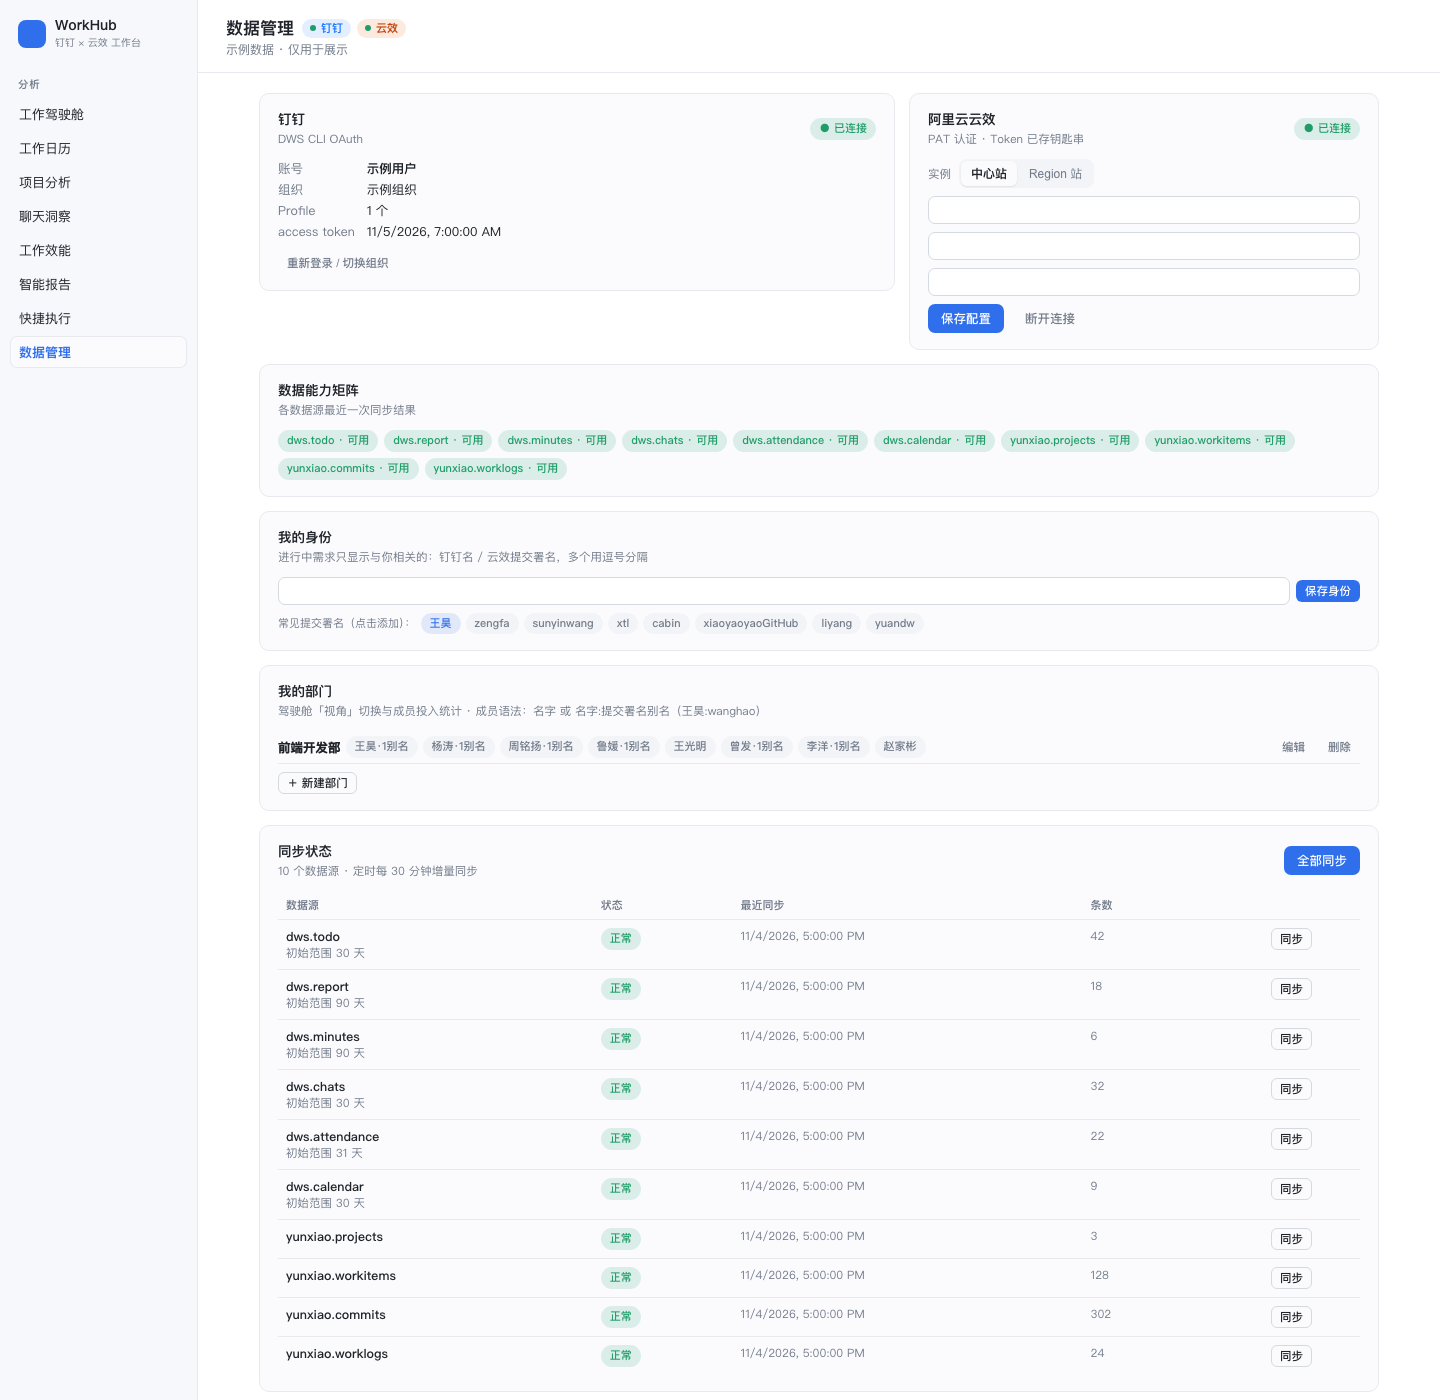
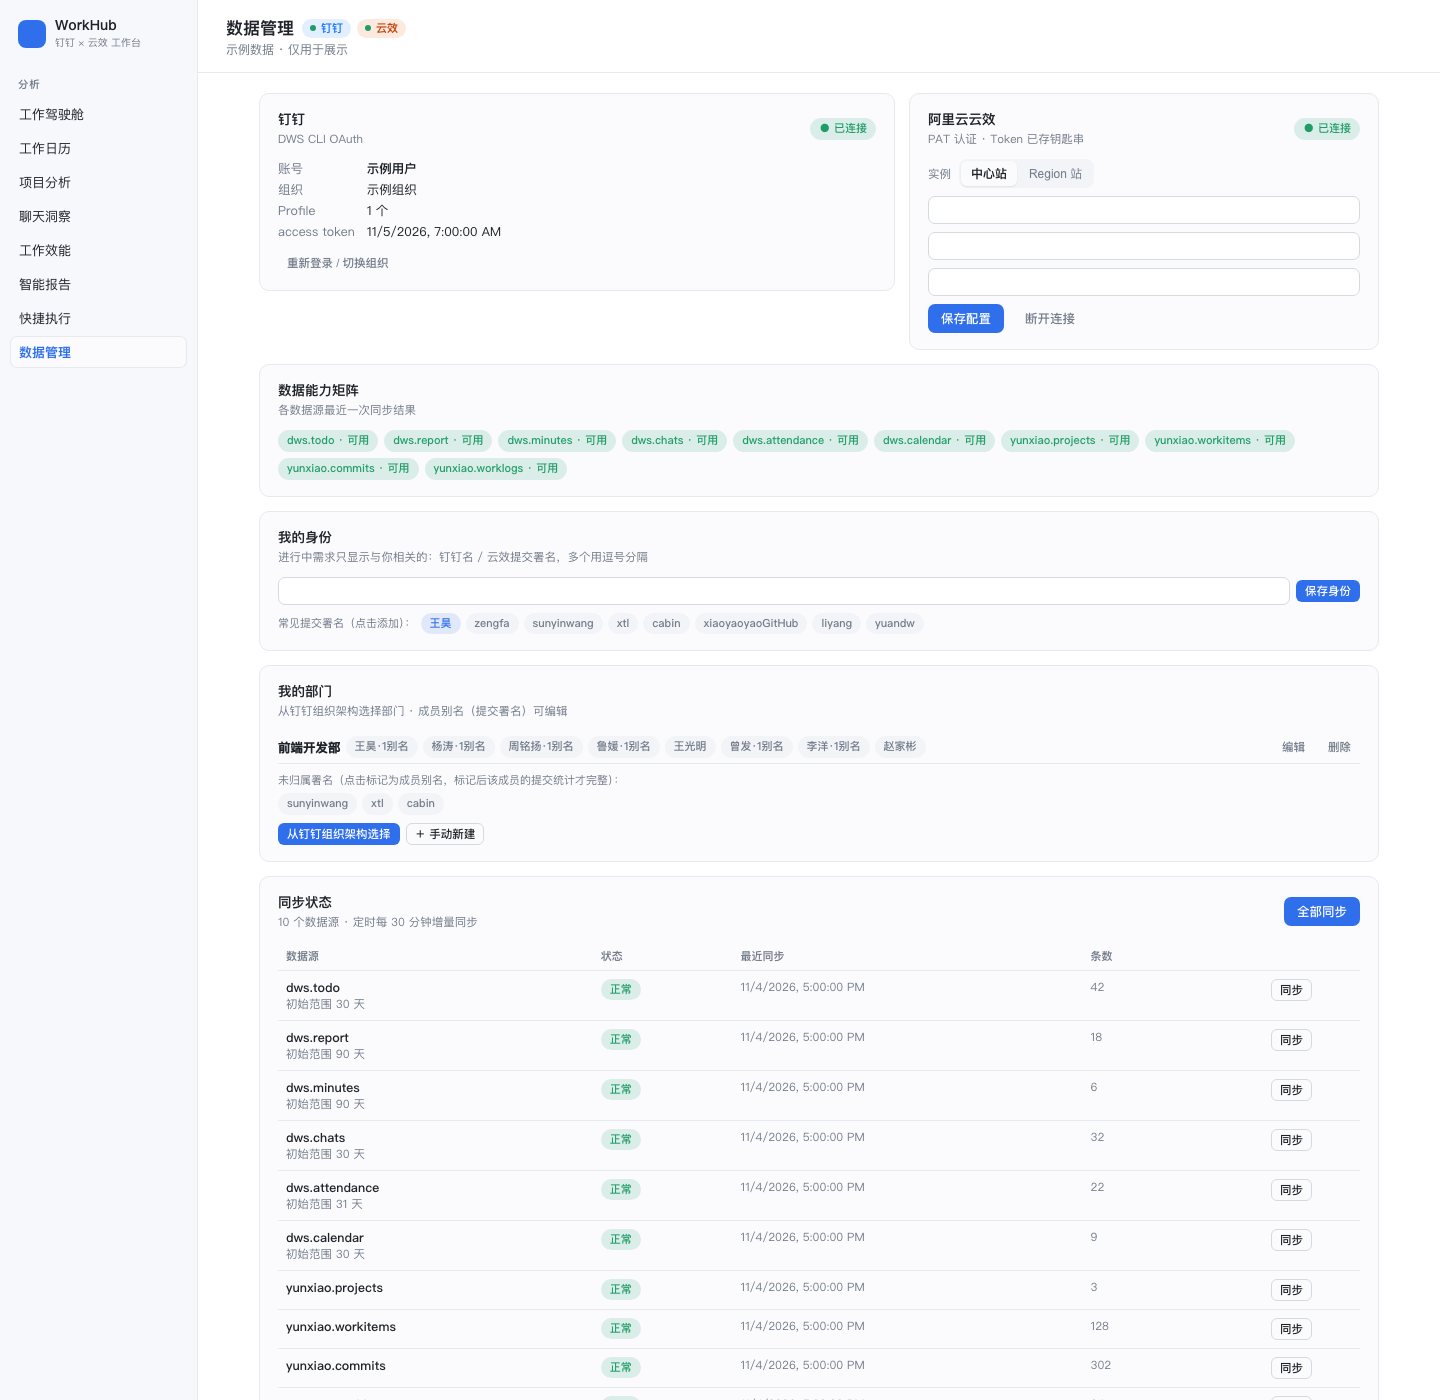
feat: 部门从钉钉组织架构逐级选择（替代手动建组），成员别名逐行可编辑

diff --git a/client.js b/client.js
@@ -1137,11 +1137,12 @@ react-is/cjs/react-is.production.js:
       const [idBusy, setIdBusy] = useState(false)
       const [groups, setGroups] = useState(null)
       const [gName, setGName] = useState('')
-      const [gMembers, setGMembers] = useState('')
+      const [editMembers, setEditMembers] = useState(null) // [{ name, aliases: 'a, b' }]
+      const [newMember, setNewMember] = useState('')
       const [gEditId, setGEditId] = useState('')
       const [gBusy, setGBusy] = useState(false)
-      const [deptName, setDeptName] = useState('')
       const [gcand, setGcand] = useState([])
+      const [browse, setBrowse] = useState(null) // { path: [{id,name}], depts, members, loading, busy }
       const [ob, setOb] = useState(null)
       const [obBusy, setObBusy] = useState(false)
       const [unmapped, setUnmapped] = useState([])
@@ -1214,15 +1215,17 @@ react-is/cjs/react-is.production.js:
 
       const saveGroup = async () => {
         const name = gName.trim()
-        const members = gMembers.split(/[,，\n]+/).map((s) => s.trim()).filter(Boolean)
+        const members = (editMembers ?? [])
+          .map((m) => ({ name: String(m.name ?? '').trim(), aliases: String(m.aliases ?? '').split(/[,，、|\s]+/).map((x) => x.trim()).filter(Boolean) }))
+          .filter((m) => m.name)
         if (!name || !members.length) { setMsg('部门名与成员都必填'); return }
         setGBusy(true)
         try {
           const cur = (groups ?? []).filter((g) => g.id !== gEditId)
           const r = await api('/groups', { method: 'POST', body: JSON.stringify({ groups: [...cur, { id: gEditId || undefined, name, members }] }) })
           setGroups(r.groups ?? [])
-          setGName(''); setGMembers(''); setGEditId('')
-          setMsg(`已保存部门「${name}」（${members.length} 名成员）。git 署名不同的成员记得补别名（王昊:wanghao），否则提交统计会漏`)
+          setGName(''); setEditMembers(null); setNewMember(''); setGEditId('')
+          setMsg(`已保存部门「${name}」（${members.length} 名成员）`)
         } catch (e) { setMsg(`部门保存失败: ${e.message}`) } finally { setGBusy(false) }
       }
 
@@ -1235,15 +1238,47 @@ react-is/cjs/react-is.production.js:
         } catch (e) { setMsg(`删除失败: ${e.message}`) } finally { setGBusy(false) }
       }
 
-      const importDept = async () => {
-        if (!deptName.trim()) { setMsg('先填钉钉部门名再导入'); return }
-        setGBusy(true)
+      /* 编辑成员行：添加（支持 名字 或 名字:别名1|别名2）/ 删除 */
+      const addMemberRow = () => {
+        const raw = newMember.trim()
+        if (!raw) return
+        const [head, tail] = raw.split(/[:：]/)
+        const name = String(head ?? '').trim()
+        const aliases = String(tail ?? '').split(/[|｜,，、\s]+/).map((x) => x.trim()).filter(Boolean)
+        if (!name) return
+        setEditMembers((p0) => [...(p0 ?? []), { name, aliases: aliases.join(', ') }])
+        setNewMember('')
+      }
+
+      /* 钉钉组织架构浏览：逐级选部门 → 添加为分组（同名则同步成员） */
+      const fetchDept = async (parentId, path) => {
+        setBrowse({ path, depts: [], members: [], loading: true, busy: false })
         try {
-          const r = await api('/groups/import-dept', { method: 'POST', body: JSON.stringify({ deptName: deptName.trim() }) })
-          setGMembers((r.members ?? []).join(', '))
-          if (!gName.trim()) setGName(r.deptName ?? deptName)
-          setMsg(`已从钉钉导入「${r.deptName}」${(r.members ?? []).length} 名成员，确认后点保存。成员的提交署名别名需手动补（如 王昊:wanghao）`)
-        } catch (e) { setMsg(`钉钉导入失败: ${e.message}`) } finally { setGBusy(false) }
+          const r = await api(`/depts?parentId=${encodeURIComponent(parentId)}`)
+          setBrowse({ path, depts: r.depts ?? [], members: r.members ?? [], loading: false, busy: false })
+        } catch (e) {
+          setBrowse({ path, depts: [], members: [], loading: false, busy: false })
+          setMsg(`组织架构加载失败: ${e.message}`)
+        }
+      }
+      const navDept = (d) => fetchDept(d.id, [...(browse?.path ?? []), d])
+      const goUpTo = (i) => {
+        const path = (browse?.path ?? []).slice(0, i)
+        const parentId = path.length ? path[path.length - 1].id : '1'
+        fetchDept(parentId, path)
+      }
+      const pickDept = async () => {
+        const path = browse?.path ?? []
+        if (!path.length || !(browse?.members ?? []).length) { setMsg('先进入一个具体部门（需有成员）'); return }
+        const name = path[path.length - 1].name.split('-').pop()
+        setBrowse((b0) => ({ ...(b0 ?? {}), busy: true }))
+        try {
+          const cur = (groups ?? []).filter((g) => g.name !== name)
+          const r = await api('/groups', { method: 'POST', body: JSON.stringify({ groups: [...cur, { name, members: browse.members }] }) })
+          setGroups(r.groups ?? [])
+          setMsg(`已${(groups ?? []).some((g) => g.name === name) ? '同步' : '添加'}部门「${name}」（${browse.members.length} 人）。成员别名可在下方编辑`)
+          setBrowse(null)
+        } catch (e) { setMsg(`添加失败: ${e.message}`); setBrowse((b0) => ({ ...(b0 ?? {}), busy: false })) }
       }
 
       useEffect(() => {
@@ -1410,7 +1445,7 @@ react-is/cjs/react-is.production.js:
             : null),
         h(Card, {
           title: '我的部门',
-          sub: '驾驶舱「视角」切换与成员投入统计 · 成员语法：名字 或 名字:提交署名别名（王昊:wanghao）',
+          sub: '从钉钉组织架构选择部门 · 成员别名（提交署名）可编辑',
         },
           (groups ?? []).length
             ? (groups ?? []).map((g) =>
@@ -1425,11 +1460,12 @@ react-is/cjs/react-is.production.js:
                       size: 'sm', variant: 'ghost',
                       onClick: () => {
                         setGEditId(g.id); setGName(g.name)
-                        setGMembers(g.members.map((m) => (m.aliases.length ? `${m.name}:${m.aliases.join('|')}` : m.name)).join(', '))
+                        setEditMembers(g.members.map((m) => ({ name: m.name, aliases: m.aliases.join(', ') })))
+                        setNewMember('')
                       },
                     }, '编辑'),
                     h(Btn, { size: 'sm', variant: 'ghost', disabled: gBusy, onClick: () => deleteGroup(g.id) }, '删除'))))
-            : h('div', { className: 'wh-muted', style: { fontSize: 12 } }, '还没有部门。新建一个，或从钉钉通讯录导入'),
+            : h('div', { className: 'wh-muted', style: { fontSize: 12 } }, '还没有部门。从钉钉组织架构选择，或手动新建'),
           (groups ?? []).length && (unmapped.length || markFor)
             ? h('div', { style: { marginTop: 8, display: 'flex', flexDirection: 'column', gap: 5 } },
                 h('div', { className: 'wh-muted', style: { fontSize: 11 } },
@@ -1467,33 +1503,80 @@ react-is/cjs/react-is.production.js:
                       h(Btn, { size: 'sm', variant: 'ghost', onClick: () => setMarkFor('') }, '取消'))
                   : null)
             : null,
-          gEditId || gName || gMembers
+          browse
+            ? h('div', { style: { display: 'flex', flexDirection: 'column', gap: 8, marginTop: 8, padding: 10, border: '1px solid var(--dsw-alias-border-l1)', borderRadius: 8 } },
+                h('div', { className: 'wh-toolbar', style: { gap: 4, flexWrap: 'wrap', alignItems: 'center' } },
+                  h('span', { className: 'wh-muted', style: { fontSize: 11 } }, '组织架构'),
+                  h(Chip, { tone: browse.path.length ? 'neutral' : 'brand', style: { cursor: 'pointer' }, onClick: () => goUpTo(0) }, '全公司'),
+                  (browse.path ?? []).map((d, i) =>
+                    h(Chip, {
+                      key: d.id, tone: i === browse.path.length - 1 ? 'brand' : 'neutral',
+                      style: { cursor: 'pointer' }, onClick: () => goUpTo(i + 1),
+                    }, d.name)),
+                  browse.loading ? h('span', { className: 'wh-muted', style: { fontSize: 11 } }, '加载中…') : null),
+                browse.depts.length
+                  ? h('div', { style: { display: 'flex', flexWrap: 'wrap', gap: 5 } },
+                      browse.depts.map((d) =>
+                        h(Chip, { key: d.id, tone: 'neutral', style: { cursor: 'pointer' }, onClick: () => navDept(d) }, `${d.name} ›`)))
+                  : !browse.loading
+                    ? h('div', { className: 'wh-muted', style: { fontSize: 12 } }, '没有下级部门了')
+                    : null,
+                (browse.path ?? []).length && !browse.loading
+                  ? h('div', { style: { display: 'flex', flexDirection: 'column', gap: 4 } },
+                      h('div', { className: 'wh-muted', style: { fontSize: 11 } },
+                        `当前部门直属成员（${(browse.members ?? []).length} 人，含下级部门成员请先进入对应部门）：`),
+                      h('div', { style: { display: 'flex', flexWrap: 'wrap', gap: 5 } },
+                        (browse.members ?? []).map((m) => h(Chip, { key: m, tone: 'neutral' }, m))),
+                      h('div', { className: 'wh-toolbar', style: { gap: 6 } },
+                        h(Btn, { size: 'sm', variant: 'primary', disabled: browse.busy || !(browse.members ?? []).length, onClick: pickDept },
+                          browse.busy ? '添加中…' : '添加为部门分组'),
+                        h(Btn, { size: 'sm', variant: 'ghost', onClick: () => setBrowse(null) }, '关闭')))
+                  : null,
+                !browse.loading && (browse.members ?? []).length && !(browse.path ?? []).length
+                  ? h('div', { className: 'wh-muted', style: { fontSize: 11 } }, '根目录成员为公司直属，进入具体部门后再添加')
+                  : null)
+            : null,
+          gEditId || editMembers
             ? h('div', { style: { display: 'flex', flexDirection: 'column', gap: 6, marginTop: 8 } },
                 h('div', { className: 'wh-toolbar', style: { gap: 6, flexWrap: 'wrap' } },
-                  h(WhInput, { style: { width: 150 }, placeholder: '部门名', value: gName, onChange: (e) => setGName(e.target.value) }),
-                  h(WhInput, { style: { width: 130 }, placeholder: '钉钉部门名', value: deptName, onChange: (e) => setDeptName(e.target.value) }),
-                  h(Btn, { size: 'sm', disabled: gBusy, onClick: importDept }, '从钉钉导入')),
-                h('div', { className: 'wh-toolbar', style: { gap: 6, flexWrap: 'wrap' } },
-                  h(WhInput, { style: { flex: 1, minWidth: 240 },
-                    placeholder: '成员（逗号分隔，支持别名：王昊:wanghao）', value: gMembers,
-                    onChange: (e) => setGMembers(e.target.value),
-                  }),
+                  h(WhInput, { style: { width: 160 }, placeholder: '部门名', value: gName, onChange: (e) => setGName(e.target.value) }),
                   h(Btn, { size: 'sm', variant: 'primary', disabled: gBusy, onClick: saveGroup }, gBusy ? '处理中…' : '保存部门'),
-                  h(Btn, { size: 'sm', onClick: () => { setGEditId(''); setGName(''); setGMembers('') } }, '取消')),
+                  h(Btn, { size: 'sm', onClick: () => { setGEditId(''); setGName(''); setEditMembers(null); setNewMember('') } }, '取消')),
+                (editMembers ?? []).map((m, i) =>
+                  h('div', { key: `${m.name}-${i}`, className: 'wh-toolbar', style: { gap: 6 } },
+                    h('span', { style: { width: 64, fontSize: 12.5, fontWeight: 500, flex: 'none', overflow: 'hidden', textOverflow: 'ellipsis', whiteSpace: 'nowrap' } }, m.name),
+                    h(WhInput, {
+                      style: { flex: 1, minWidth: 140 }, placeholder: '别名 / git 署名（逗号分隔，可留空）', value: m.aliases,
+                      onChange: (e) => setEditMembers((p0) => (p0 ?? []).map((x, j) => (j === i ? { ...x, aliases: e.target.value } : x))),
+                    }),
+                    h(Btn, {
+                      size: 'sm', variant: 'ghost',
+                      onClick: () => setEditMembers((p0) => (p0 ?? []).filter((_, j) => j !== i)),
+                    }, '×'))),
+                h('div', { className: 'wh-toolbar', style: { gap: 6 } },
+                  h(WhInput, {
+                    style: { flex: 1, minWidth: 160 }, placeholder: '添加成员：名字 或 名字:别名1|别名2', value: newMember,
+                    onChange: (e) => setNewMember(e.target.value), onEnter: addMemberRow,
+                  }),
+                  h(Btn, { size: 'sm', onClick: addMemberRow }, '＋ 添加成员')),
                 gcand.length
                   ? h('div', { style: { display: 'flex', flexWrap: 'wrap', gap: 5, alignItems: 'center' } },
-                      h('span', { className: 'wh-muted', style: { fontSize: 11 } }, '常见名字（点击加入成员）：'),
+                      h('span', { className: 'wh-muted', style: { fontSize: 11 } }, '常见名字（点击加入）：'),
                       gcand.map((c) =>
                         h(Chip, {
                           key: c, tone: 'neutral', style: { cursor: 'pointer' },
-                          onClick: () => {
-                            const cur = gMembers.split(/[,，\n]+/).map((s) => s.trim()).filter(Boolean)
-                            if (!cur.includes(c)) setGMembers([...cur, c].join(', '))
-                          },
+                          onClick: () => { if (!newMember.trim()) setNewMember(c) },
                         }, c)))
                   : null)
-            : h('div', { style: { marginTop: 8 } },
-                h(Btn, { size: 'sm', onClick: () => { setGEditId(''); setGName(''); setGMembers('') } }, '＋ 新建部门'))),
+            : !browse
+              ? h('div', { style: { marginTop: 8, display: 'flex', gap: 6 } },
+                  h(Btn, { size: 'sm', variant: 'primary', onClick: () => fetchDept('1', []) }, '从钉钉组织架构选择'),
+                  h(Btn, {
+                    size: 'sm', onClick: () => {
+                      setGEditId(''); setGName(''); setEditMembers([]); setNewMember('')
+                    },
+                  }, '＋ 手动新建'))
+              : null),
         h(Card, {
           title: '同步状态',
           sub: `${(status?.sources ?? []).length || 12} 个数据源 · 定时每 30 分钟增量同步`,

diff --git a/lib/api.js b/lib/api.js
@@ -293,6 +293,42 @@ export function createWorkHubRouter(options = {}) {
     return out
   }
 
+  /** 钉钉组织架构浏览：某部门的子部门 + 直属成员（导航用，缓存 5 分钟）。 */
+  const deptTreeMem = new Map()
+  const browseDept = async (parentId) => {
+    const key = String(parentId)
+    const hit = deptTreeMem.get(key)
+    if (hit && Date.now() - hit.at < 5 * 60_000) return hit.data
+    const clean = (t) => String(t ?? '').replace(/<\/?red>/g, '')
+    const walk = (o, out) => {
+      if (o && typeof o === 'object') {
+        if (o.deptId != null && (o.deptName || o.name)) {
+          const id = String(o.deptId)
+          if (!out.seen.has(id)) { out.seen.add(id); out.depts.push({ id, name: clean(o.deptName ?? o.name) }) }
+        }
+        const name = o.orgUserName ?? o.name
+        const uid = o.userId
+        if (name && uid && !out.seenM.has(uid)) { out.seenM.add(uid); out.members.push(String(name)) }
+        for (const v of Object.values(o)) walk(v, out)
+      } else if (Array.isArray(o)) for (const v of o) walk(v, out)
+    }
+    const collect = (resp) => {
+      const out = { seen: new Set(), seenM: new Set(), depts: [], members: [] }
+      if (resp) walk(resp, out)
+      return out
+    }
+    const [children, members] = await Promise.all([
+      runDwsCli(['contact', 'dept', 'list-children', '--ids', key, '--format', 'json']).catch(() => null),
+      runDwsCli(['contact', 'dept', 'list-members', '--ids', key, '--format', 'json']).catch(() => null),
+    ])
+    const c = collect(children)
+    const m = collect(members)
+    const data = { parentId: key, depts: c.depts, members: m.members.slice(0, 60) }
+    deptTreeMem.set(key, { at: Date.now(), data })
+    if (deptTreeMem.size > 50) deptTreeMem.delete(deptTreeMem.keys().next().value)
+    return data
+  }
+
   const GET = {
     '/status': async (params) => {
       const health = await Promise.allSettled([dws.getHealth()])
@@ -681,6 +717,9 @@ export function createWorkHubRouter(options = {}) {
 
     /* 新装引导：自动识别当前用户与部门（只读检测；采用走 /identity 与 /groups 保存） */
     '/onboarding/detect': async (params) => detectOnboarding({ force: params.get('force') === '1' }),
+
+    /* 钉钉组织架构浏览：子部门 + 直属成员（选择部门建组用） */
+    '/depts': async (params) => browseDept(String(params.get('parentId') ?? '1').replace(/\D/g, '') || '1'),
 
     /* 部门成员投入（提交 / 进行中需求 / 对话，区间聚合） */
     '/analytics/group': async (params) => {
